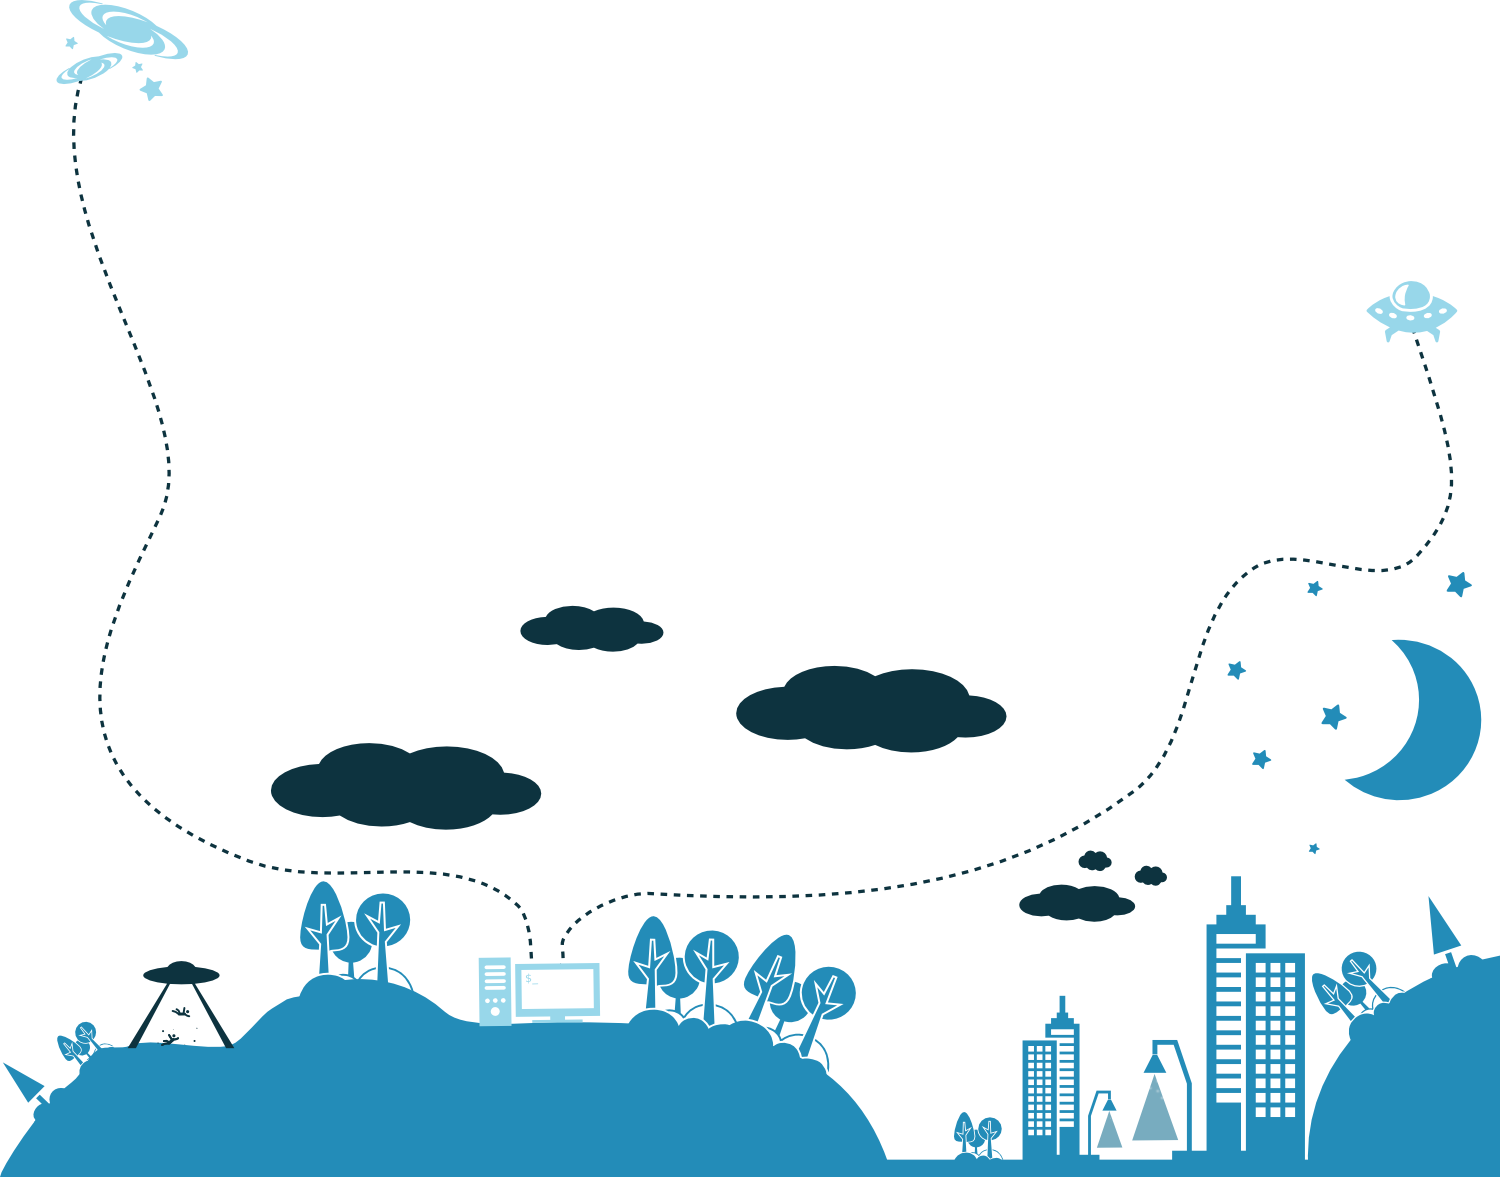
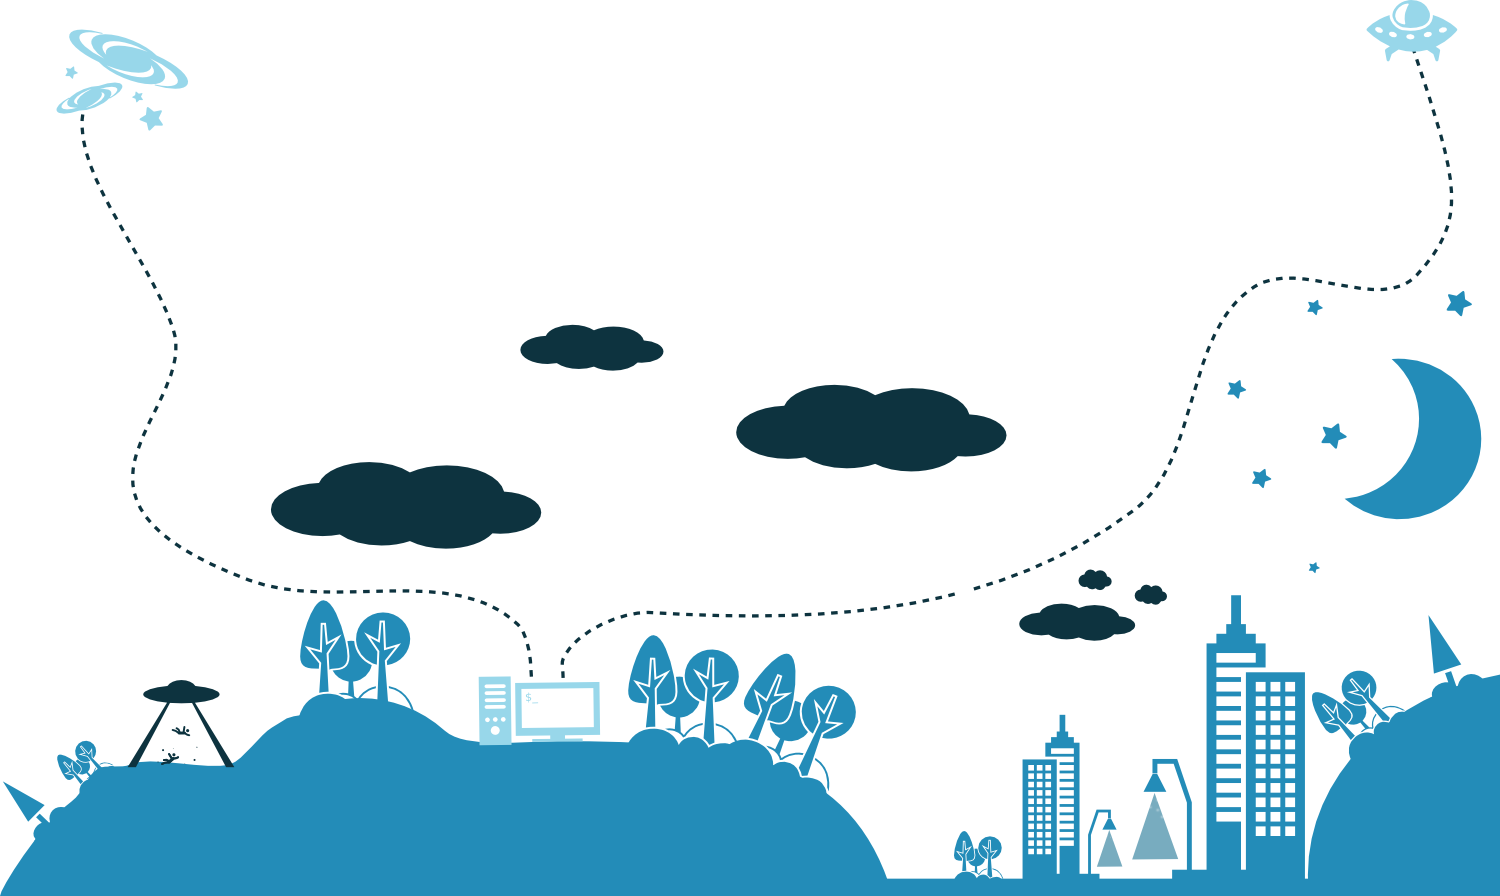
working on cross browser and coupon code form

diff --git a/contest/website/static/website/css/common.css b/contest/website/static/website/css/common.css
@@ -36,20 +36,43 @@ b, .bold { font-weight: bold; }
 
 /* page main style {{{ */
 .logo_container { width: 50%; text-align: center; margin: 0 auto; }
-.logo_container .entpy_logo_image, .logo_container .entpy_logo_image2 { width: 90%; margin-top: 3em; }
-.entpy_universe_image { width: 100%; }
+.logo_container .entpy_logo_image { width: 90%; margin-top: 3em; }
+.logo_container2 { padding-top: 5%; }
+.logo_container2 .entpy_logo_image2 { width: 90%; }
+.entpy_world_container { padding-top: 1em; display: inline-block; width: 100%; }
+.entpy_world_container .entpy_world_image { width: 100%; }
+.logo_bottom_container { color: white; font-size: 21px; font-weight: bolder; }
+
+.wrapper { 
+	background: #002c3a; /* Old browsers */
+	background: -moz-linear-gradient(top, #001a23 0%, #001a23 58%, #0a4554 100%); /* FF3.6+ */
+	background: -webkit-gradient(linear, left top, left bottom, color-stop(0%,#001a23), color-stop(58%,#001a23), color-stop(100%,#0a4554)); /* Chrome,Safari4+ */
+	background: -webkit-linear-gradient(top, #001a23 0%,#001a23 58%,#0a4554 100%); /* Chrome10+,Safari5.1+ */
+	background: -o-linear-gradient(top, #001a23 0%,#001a23 58%,#0a4554 100%); /* Opera 11.10+ */
+	background: -ms-linear-gradient(top, #001a23 0%,#001a23 58%,#0a4554 100%); /* IE10+ */
+	background: linear-gradient(to bottom, #001a23 0%,#001a23 58%,#0a4554 100%); /* W3C */
+	filter: progid:DXImageTransform.Microsoft.gradient( startColorstr='#001a23', endColorstr='#0a4554',GradientType=0 ); /* IE6-9 */
+	display: inline-block;
+	float: left;
+	width: 100%;
+}
+
+.form_container { margin-top: 4em; }
+.form_container .input_code_container > input { background-color: #001a23; border: 2px solid #28aee2; border-radius: 4px; box-shadow: 0 0 4px 0 #28aee2; color: white; font-size: 30px; margin-bottom: 1.3em; padding: 5px 14px; text-align: center; width: 65%; }
+.form_container .input_code_container > input:hover { box-shadow: 0 0 8px 1px #28aee2; }
+.form_container .input_submit_container > input { background-color: #ff860c; border: 3px solid #001a23; border-radius: 4px; color: #001a23; cursor: pointer; font-size: 22px; padding: 9px 12px; width: 50%; }
 /* page main style }}} */
 
 /* colors {{{ */
 html {
 	background: #002c3a; /* Old browsers */
-	background: -moz-linear-gradient(top, #001a23 1%, #003547 35%, #0a4554 97%); /* FF3.6+ */
-	background: -webkit-gradient(linear, left top, left bottom, color-stop(1%,#001a23), color-stop(35%,#003547), color-stop(97%,#0a4554)); /* Chrome,Safari4+ */
-	background: -webkit-linear-gradient(top, #001a23 1%,#003547 35%,#0a4554 97%); /* Chrome10+,Safari5.1+ */
-	background: -o-linear-gradient(top, #001a23 1%,#003547 35%,#0a4554 97%); /* Opera 11.10+ */
-	background: -ms-linear-gradient(top, #001a23 1%,#003547 35%,#0a4554 97%); /* IE10+ */
-	background: linear-gradient(to bottom, #001a23 1%,#003547 35%,#0a4554 97%); /* W3C */
-	filter: progid:DXImageTransform.Microsoft.gradient( startColorstr='#001a23', endColorstr='#0a4554',GradientType=0 ); /* IE6-8 */
+	background: -moz-linear-gradient(top, #001a23 0%, #001a23 58%, #0a4554 100%); /* FF3.6+ */
+	background: -webkit-gradient(linear, left top, left bottom, color-stop(0%,#001a23), color-stop(58%,#001a23), color-stop(100%,#0a4554)); /* Chrome,Safari4+ */
+	background: -webkit-linear-gradient(top, #001a23 0%,#001a23 58%,#0a4554 100%); /* Chrome10+,Safari5.1+ */
+	background: -o-linear-gradient(top, #001a23 0%,#001a23 58%,#0a4554 100%); /* Opera 11.10+ */
+	background: -ms-linear-gradient(top, #001a23 0%,#001a23 58%,#0a4554 100%); /* IE10+ */
+	background: linear-gradient(to bottom, #001a23 0%,#001a23 58%,#0a4554 100%); /* W3C */
+	filter: progid:DXImageTransform.Microsoft.gradient( startColorstr='#001a23', endColorstr='#0a4554',GradientType=0 ); /* IE6-9 */
 }
 /* colors }}} */
 

diff --git a/contest/website/static/website/js/view/index.js b/contest/website/static/website/js/view/index.js
@@ -7,16 +7,16 @@ $(document).ready(function(){
 	validate_document_img();
 
 	// a bit of color
-	// animate_entpy_world();
+	animate_entpy_world();
 
 	// TODO: remove, debug only
-	page_scrolling()
+	// delay_page_scrolling();
 });
 
 function validate_document_img() {
 	// function to use .svg or .png image (depending on browser support)
 
-	if (!Modernizr.svgasimg) {
+	// if (!Modernizr.svgasimg) {
 		$(".check_image").each(function(index) {
 			var old_src_path;
 			var new_src_path;
@@ -24,7 +24,7 @@ function validate_document_img() {
 			new_src_path = old_src_path.replace(".svg", ".png");
 			$(this).attr("src", new_src_path);
 		});
-	}
+	// }
 
 	return true;
 }
@@ -58,6 +58,7 @@ function animate_entpy_world() {
 
 		// adding body no_overflow_x class
 		$("body").addClass("no_overflow_x");
+		// $("html").addClass("no_overflow_x");
 
 		// entpy logo tada
 		$(".logo1AnimationAction").removeClass("bounceInDown");
@@ -67,33 +68,47 @@ function animate_entpy_world() {
 
 			// entpy logo out
 			$(".logo1AnimationAction").removeClass("tada");
-			animate_element(".logo1AnimationAction", "lightSpeedOut", "1s", "1s", "1");
+			animate_element(".logo1AnimationAction", "lightSpeedOut", "0.8s", "1s", "1");
 
 			// scrolling universe to the city
-			setTimeout(function() { page_scrolling(); }, 3000);
+			setTimeout(function() { delay_page_scrolling(); }, 3000);
 		});
 	});
 
 	return true;
 }
 
-function page_scrolling() {
+function delay_page_scrolling() {
 	// function to scroll universe to the city (page bottom)
 
-	$.scrollTo('.scroll_to_element1', 5500, { easing : 'easeOutBounce', onAfter : function(){
-			animate_element(".logo2AnimationAction", "lightSpeedIn", "1s", "1s", "1");
-
-				$(".logo2AnimationAction").one('webkitAnimationEnd mozAnimationEnd MSAnimationEnd oanimationend animationend', function(param){
-
-					// bottom logo text in
-					animate_element(".logoBottomTextAction", "zoomInDown", "2s", "1s", "1");
-
-					$(".logoBottomTextAction").one('webkitAnimationEnd mozAnimationEnd MSAnimationEnd oanimationend animationend', function(param){
-						// bottom logo text in animation end
-					});
-				});
-			}
-		} );
+	// scrolling after a delay
+	setTimeout("scrolling();", 2000);
 
 	return true;
 }
+
+function scrolling() {
+	// scrolling to page bottom...
+
+	$.scrollTo('.scroll_to_bottom', 5500, { easing : 'easeInOutQuart', onAfter : function(){
+			// ...at the end of bottom scrolling, return to logo pt2 animation
+			$.scrollTo('.scroll_to_element1', 5000, { easing : 'easeInOutQuart', onAfter : function(){
+					animate_element(".logo2AnimationAction", "lightSpeedIn", "1s", "1s", "1");
+					animate_element(".logoBottomTextAction", "shake", "1s", "1.2s", "1");
+					/*$(".logo2AnimationAction").one('webkitAnimationEnd mozAnimationEnd MSAnimationEnd oanimationend animationend', function(param){
+
+						// bottom logo text in
+						animate_element(".logoBottomTextAction", "rubberBand", "2s", "0s", "1");
+
+						$(".logoBottomTextAction").one('webkitAnimationEnd mozAnimationEnd MSAnimationEnd oanimationend animationend', function(param){
+							// bottom logo text in animation end
+						});
+					});*/
+				}
+			});
+		}
+	});
+
+	return true;
+}
+

diff --git a/contest/website/templates/website/index.html b/contest/website/templates/website/index.html
@@ -1,35 +1,47 @@
 {% extends "website/inc/base_index.html" %}
 {% load staticfiles %}
 {% block main_content %}
+<style>
+	.entpy_world_image_container { text-align: center; }
+	.entpy_world_image_container > img { width: 70%; }
+</style>
 {# Top logo container (first Entpy entrance) #}
-<div class="logo_container">
-	<img class="check_image entpy_logo_image logo1AnimationAction" alt="Entpy" src="static/website/img/logo.svg">
-</div>
-{# stars, planet and middle stuff container #}
-<div class="stuff_container">
-	<div class="image_container align_center">
-		<img class="width_78_100" src="static/website/img/planet.svg" alt="Planet">
-	</div>
-</div>
-<div class="vertical_spacing"></div>
-{# Entpy universe container #}
-<div class="bg_container scroll_to_element1">
-	{# Bottom logo container (first Entpy entrance) #}
+<div class="wrapper">
 	<div class="logo_container">
-		<img class="check_image entpy_logo_image2 novisible logo2AnimationAction" alt="Entpy" src="static/website/img/logo.svg">
-		{# logo bottom text container #}
-		<div class="logo_bottom_container novisible logoBottomTextAction">
-			Contest
+		<img class="check_image entpy_logo_image logo1AnimationAction" alt="Entpy" src="static/website/img/logo.svg">
+	</div>
+	{# stars, planet and middle stuff container #}
+	<div class="stuff_container">
+		<div class="image_container align_center">
+			<img class="check_image width_78_100" src="static/website/img/planet.svg" alt="Entpy universe">
 		</div>
 	</div>
-	<img class="check_image entpy_universe_image" alt="Entpy universe" src="static/website/img/bg.svg">
+	<div class="vertical_spacing"></div>
+	{# Entpy universe container #}
+	<div class="entpy_world_container">
+		{# Bottom logo container (second Entpy entrance) #}
+		<div class="scroll_to_element1"></div>
+		<div class="logo_container logo_container2">
+			<img class="check_image entpy_logo_image2 novisible logo2AnimationAction" alt="Entpy" src="static/website/img/logo.svg">
+			{# logo bottom text container #}
+			<div class="logo_bottom_container logoBottomTextAction">
+				Contest
+			</div>
+			<div class="form_container">
+				<form name="validate_coupon_form" method="POST" action="">
+					<div class="input_code_container">
+						<input placeholder="Codice del volantino" type="text" name="code" value="" />
+					</div>
+					<div class="input_submit_container">
+						<input type="submit" name="submit" value="Valida codice" />
+					</div>
+				</form>
+			</div>
+		</div>
+		<div class="entpy_world_image_container">
+			<img class="check_image entpy_world_image" src="static/website/img/bg.svg" alt="Entpy world">
+		</div>
+	</div>
+	<div class="scroll_to_bottom"></div>
 </div>
-<script>
-$(document).ready(function(){
-	var universe_image_position = $(".entpy_universe_image").position();
-	var universe_image_offset = $(".entpy_universe_image").position();
-	console.log(universe_image_position);
-	console.log(universe_image_offset);
-});
-</script>
 {% endblock main_content %}
